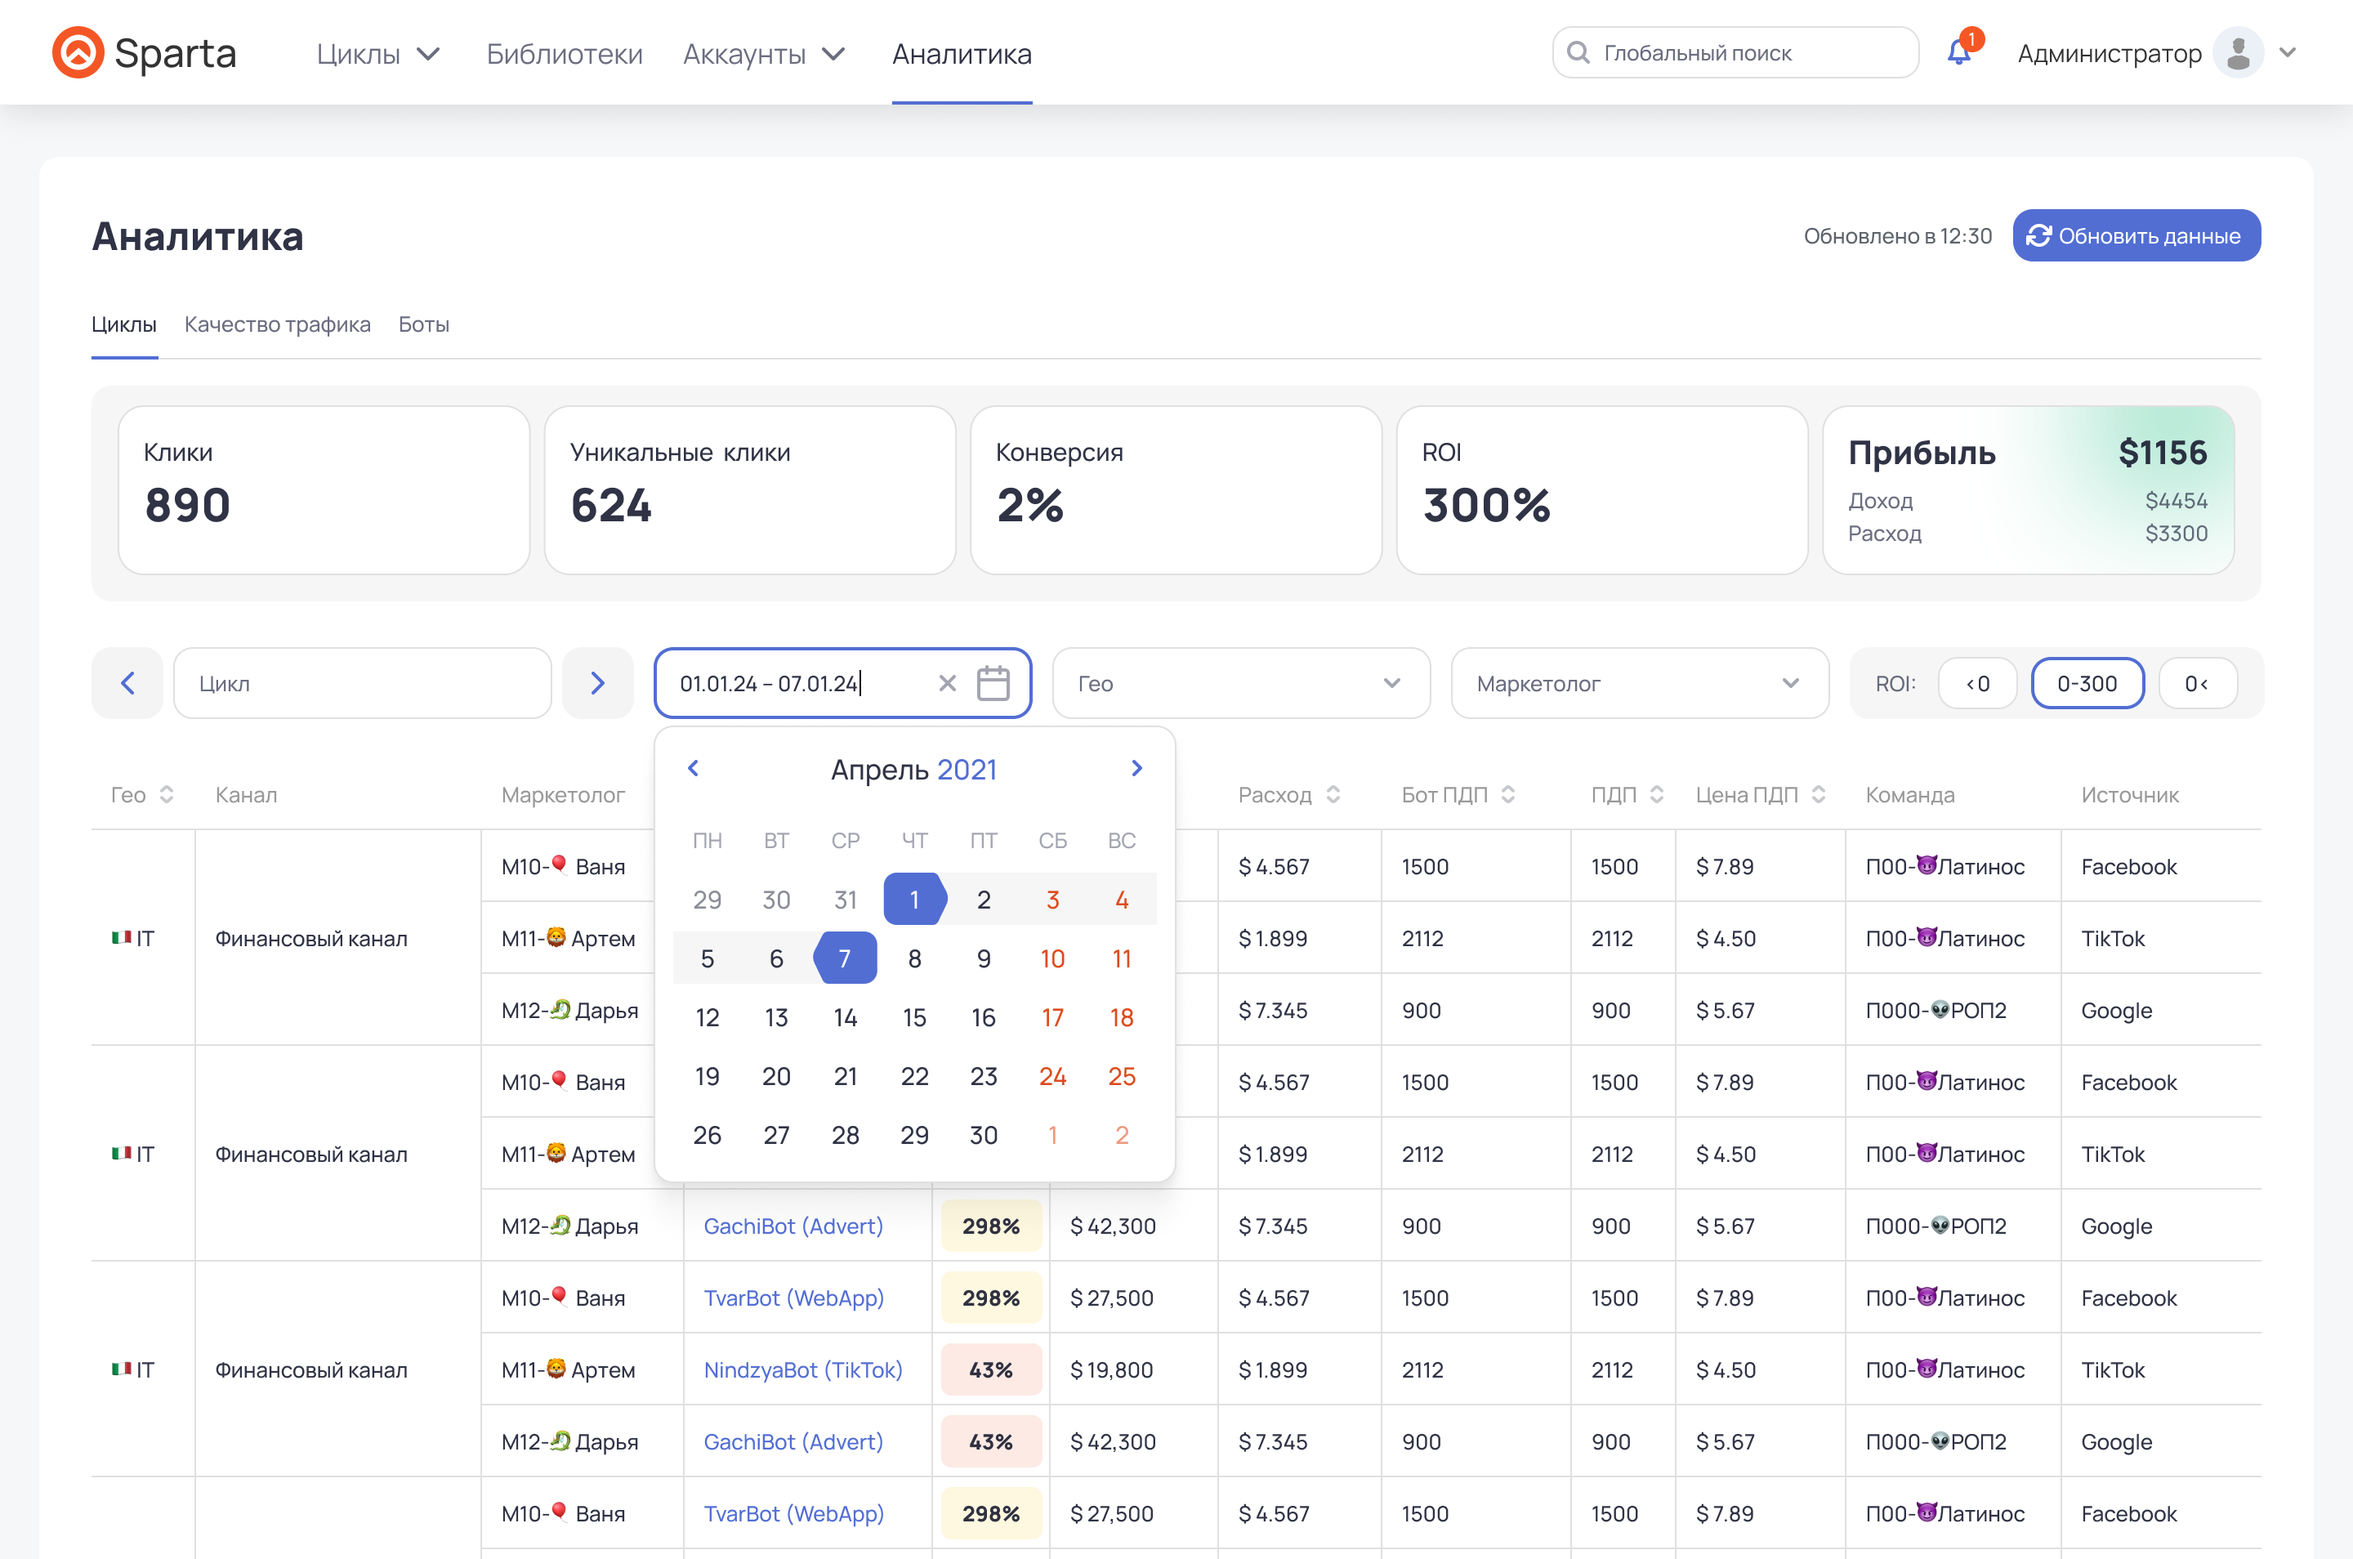
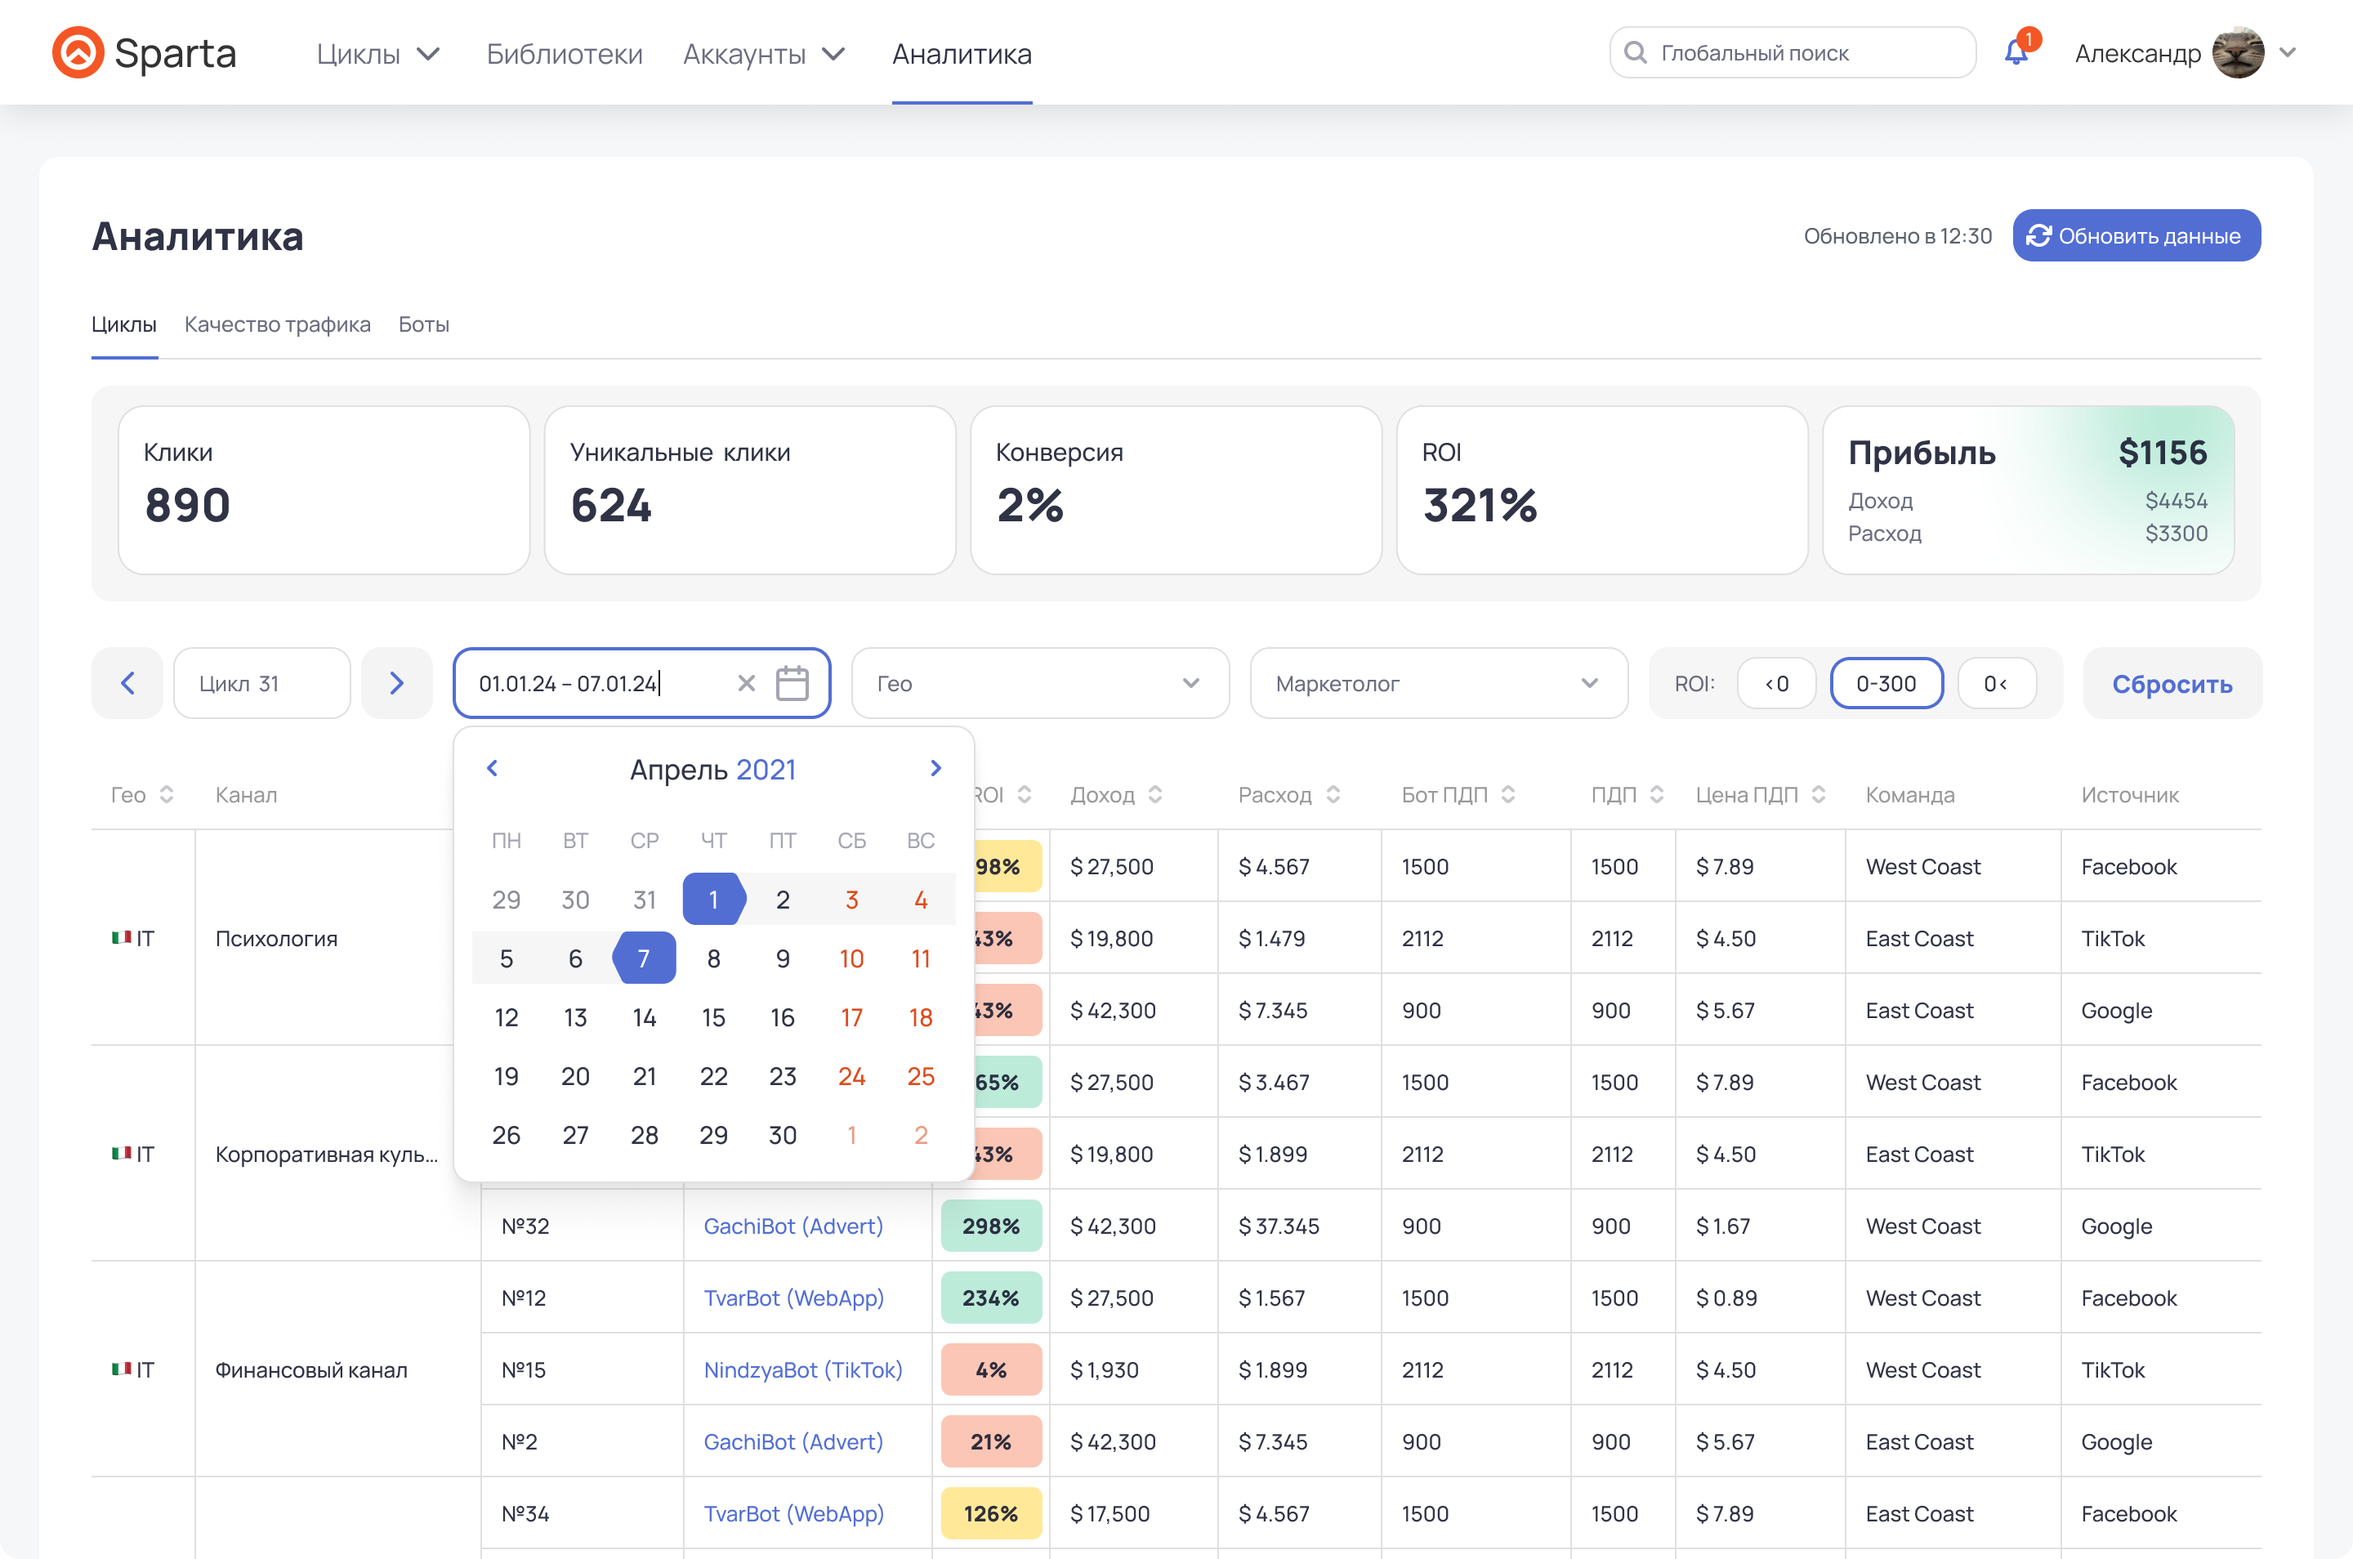
go

diff --git a/src/Pages/Resume/Blocks/Cases/BotDev.jsx b/src/Pages/Resume/Blocks/Cases/BotDev.jsx
@@ -15,7 +15,7 @@ const BotDev = ({ darkTheme, setDarkTheme }) => {
                 <h2 className={styles.BlockTitle}>Проблема</h2>
                 <div className={styles.BlockText}>
                     <p className={styles.Paragraph}>
-                        – Большое кол-во обращений от разработчиков с целью уточнения инфы (часто путались в флоу из-за плохой навигации)
+                        – Разработчики часто путались в флоу из-за плохой навигации и перегруженного визуала)
                         <br/>
                         – Отсутствие консистенции в макетах
                     </p>
